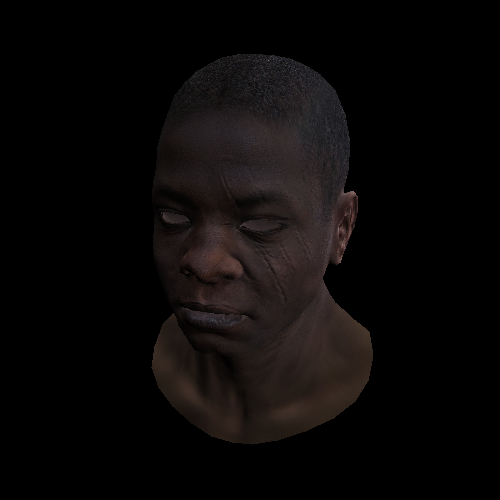
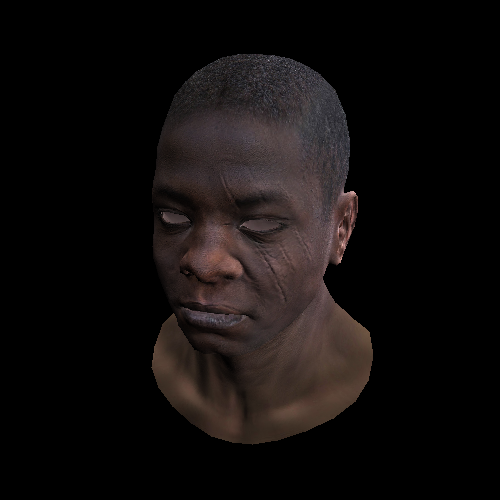
Bump diffuse light intensity

Changed region(s): [[0.36, 0.09, 0.75, 0.87], [0.3, 0.66, 0.48, 0.87], [0.33, 0.42, 0.39, 0.45]]

diff --git a/src/shaders.rs b/src/shaders.rs
@@ -52,7 +52,7 @@ pub fn fragment(
         let l = row_mat4_transform(modelviewprojection, [light[0], light[1], light[2], 0.]);
         let light_transformed = vec3_normalized([l[0], l[1], l[2]]);
 
-        intensity_interpolated = f32::max(vec3_dot(norm_transformed, light_transformed), 0.);
+        intensity_interpolated = 1.6 * f32::max(vec3_dot(norm_transformed, light_transformed), 0.);
     }
 
     let pixel = color.map(|comp: u8| (comp as f32 * intensity_interpolated) as u8);

diff --git a/README.md b/README.md
@@ -2,34 +2,34 @@
 
 After using Scala for several years and learning Go for random system tools, I decided to start with Rust. No challenges suitable for Rust were encountered until I bumped into this [tutorial](http://habrahabr.ru/post/248153/) (in Russian), available and up-to-date [in English](https://github.com/ssloy/tinyrenderer/wiki). I love [OpenGL hacks](http://idea.hosting.lv/a/gfx/quakeshots.html)!
 
-Day 1 is complete. Learned tons of nice and not-very-nice things about Rust.
+Day 1 - Learned tons of nice and not-very-nice things about Rust.
 
 ![Day 1](renders/day1.png)
 
-Day 2 is complete. Adding [PistonDevelopers](https://github.com/PistonDevelopers/) to the game.
+Day 2 - Adding [PistonDevelopers](https://github.com/PistonDevelopers/) to the game.
 
 ![Day 2](renders/day2.png)
 
-Day 3 is complete. Z-buffering!
+Day 3 - Z-buffering!
 
 ![Day 3](renders/day3.png)
 
-Day 4 is complete. Diffuse texture.
+Day 4 - Diffuse texture.
 
 ![Day 4](renders/day4.png)
 
-Day 5 is complete. Perspective.
+Day 5 - Perspective.
 
 ![Day 5](renders/day5.png)
 
-Day 6 is complete. Camera and light.
+Day 6 - Camera and light.
 
 ![Day 6](renders/day6.png)
 
-Day 7 is complete. Perspective divide aware interpolation.
+Day 7 - Perspective divide aware interpolation.
 
 ![Day 7](renders/day7.png)
 
-Day 8 is complete. Normal mapping.
+Day 8 - Normal mapping.
 
 ![Day 8](renders/day8.png)
